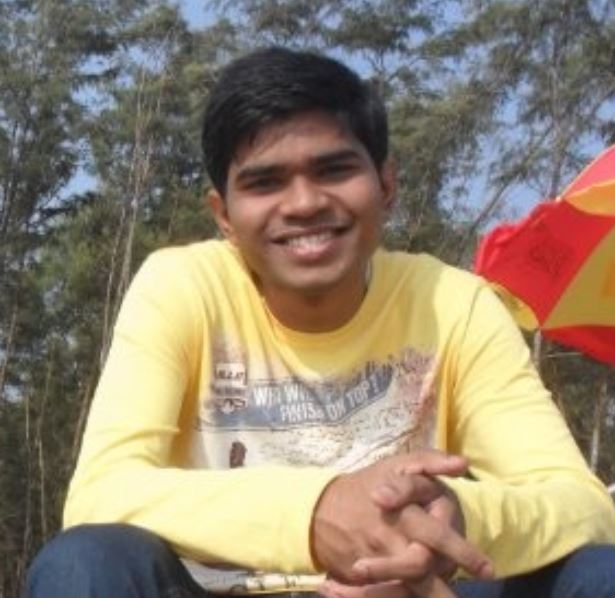
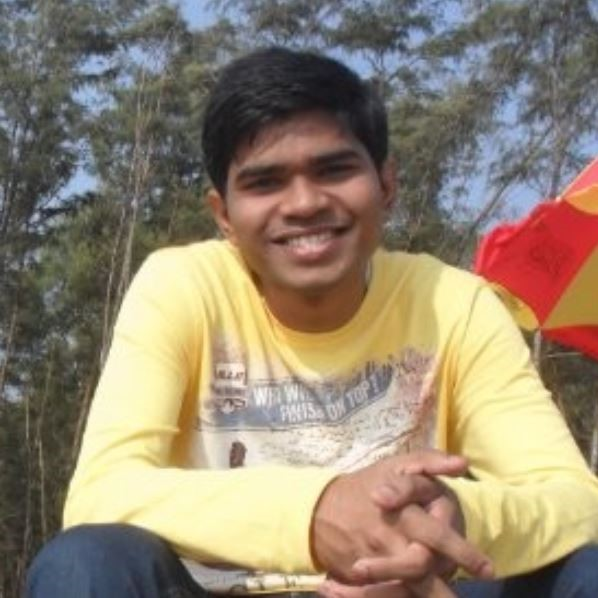
More updates

Changed region(s): [[0.0903, 0.0, 1.0, 1.0], [0.5418, 0.5418, 0.5719, 0.5719], [0.2709, 0.3612, 0.301, 0.3913]]

diff --git a/index.html b/index.html
@@ -158,8 +158,8 @@
                     
                   </td>
                   <td width="33%">
-                    <img class="acads" src="./src/images/dp.jpg" width="90%">
-                    <img class="extra hidden" src="./src/images/dp.jpg" width="90%">
+                    <img class="acads" src="./src/images/dp.jpg" width="100%">
+                    <img class="extra hidden" src="./src/images/dp2.jpg" width="100%">
                     <p align="center" class="acads">
                       <a href="https://bit.ly/2TigqsL">CV</a> |
                       <a href="https://github.com/kumardeepakr3">Github</a> |
@@ -170,7 +170,7 @@
                       <a href="https://bit.ly/2TWdlPB">Giving Back</a> |
                       <a href="https://bit.ly/3iv3KJW"> Gratitude </a>
                     </p>
-                    <div style="display: inline-block;">Extracurricular</div>
+                    <div style="display: inline-block;margin-left: 35px;">Extracurricular</div>
                     <div class="tgl" height="10px" style="display: inline-block;margin-left: 6px;/* margin-top: 2px; */vertical-align: inherit;">
                       <input type="checkbox" onchange='extracurricularClick(this);' id="toggle" style="/* display: inline-block; *//* margin-top: 40px; */">
                       <label class="tggl" for="toggle" style="display: inline-block;/* margin-top: 2px; *//* padding-top: 19px; */"></label>
@@ -580,7 +580,7 @@
                 <td width="67%" valign="top">
                   <p>
                     <heading>Football</heading>
-                    <br>I've been playing football since class 7. I play in defensive positions (left back mostly). I was lucky to be the only student selected from my school to play for U-16 team of Andaman Islands. I've been playing for Microsoft in corporate tournaments since graduation.
+                    <br>I've been playing football since class 7. I play in defensive positions (left back mostly). I was lucky to be selected to play for U-16 team of Andaman Islands. I've been playing for Microsoft in corporate tournaments since graduation.
                     <br>
                   </p>
                   <p>Here's a small video of me scoring goals (I have a lot more of conceding goals): <a href="https://youtu.be/XWX79GtnevQ?t=15">Strikerz vs Microsoft</a></p>
@@ -616,6 +616,38 @@
                     <br>
                   </p>
                   <p><a href="https://www.strava.com/athletes/21182852">Strava</a> &nbsp; &nbsp; <a href="https://www.cult.fit">Cult.Fit</a></p>
+                </td>
+              </tr></tbody>
+            </table>
+
+            <table class="extra hidden" width="100%" align="center" border="0" cellspacing="0" cellpadding="20">
+              <tbody><tr>
+                <td width="33%" valign="top" align="center">
+                  <img src="./src/images/book.jpg" alt="sym" width="100%" style="border-style: none">
+                </td>
+                <td width="67%" valign="top">
+                  <p>
+                    <heading>Reading</heading>
+                    <br>Whenever I get time and I'm not sleepy at night, I try to pick up a book and read. I'm trying to not just read books but also to understand and apply the ideas within, so I read at very slow pace. I'm trying to avoid fictions (they're being made into movies anyways).
+                    <br>
+                  </p>
+                  <p><a href="https://www.goodreads.com/kumardeepakr3">GoodReads Account</a></p>
+                </td>
+              </tr></tbody>
+            </table>
+
+            <table class="extra hidden" width="100%" align="center" border="0" cellspacing="0" cellpadding="20">
+              <tbody><tr>
+                <td width="33%" valign="top" align="center">
+                  <img src="./src/images/ide.jpg" alt="sym" width="100%" style="border-style: none">
+                </td>
+                <td width="67%" valign="top">
+                  <p>
+                    <heading>Video editing (Only for fun)</heading>
+                    <br>I took a course on video editing in my 2nd year of college. I can edit simple videos for now on KDenLive and PremierePro. I know basic transitions and effects. I've applied the learning to create some dumb/silly videos.
+                    <br>
+                  </p>
+                  <p><a href="https://youtu.be/V4heZP1JeyE">Dame Tu Cosita</a>   &nbsp; &nbsp; <a href="https://youtu.be/WVzhnJpbC0Y">Batman X Dhamaal</a>   &nbsp; &nbsp;  <a href="https://youtu.be/Juz3Iefya0c">Snape & Lily</a></p>
                 </td>
               </tr></tbody>
             </table>
@@ -668,37 +700,6 @@
               </tr></tbody>
             </table>
 
-            <table class="extra hidden" width="100%" align="center" border="0" cellspacing="0" cellpadding="20">
-              <tbody><tr>
-                <td width="33%" valign="top" align="center">
-                  <img src="./src/images/ide.jpg" alt="sym" width="100%" style="border-style: none">
-                </td>
-                <td width="67%" valign="top">
-                  <p>
-                    <heading>Video editing (Only for fun)</heading>
-                    <br>I took a course on video editing in my 2nd year of college. I can edit simple videos for now on KDenLive and PremierePro. I know basic transitions and effects. I've applied the learning to create some dumb videos.
-                    <br>
-                  </p>
-                  <p><a href="https://youtu.be/V4heZP1JeyE">Dame Tu Cosita</a>   &nbsp; &nbsp; <a href="https://youtu.be/WVzhnJpbC0Y">Batman X Dhamaal</a>   &nbsp; &nbsp;  <a href="https://youtu.be/Juz3Iefya0c">Snape & Lily</a></p>
-                </td>
-              </tr></tbody>
-            </table>
-
-            <table class="extra hidden" width="100%" align="center" border="0" cellspacing="0" cellpadding="20">
-              <tbody><tr>
-                <td width="33%" valign="top" align="center">
-                  <img src="./src/images/book.jpg" alt="sym" width="100%" style="border-style: none">
-                </td>
-                <td width="67%" valign="top">
-                  <p>
-                    <heading>Reading</heading>
-                    <br>Whenever I get time and I'm not sleepy at night, I try to pick up a book and read. I'm trying to not just read books but also to understand and apply the ideas within, so I read books at very slow pace. I'm trying to avoid fictions (they're being made into movies anyways).
-                    <br>
-                  </p>
-                  <p><a href="https://www.goodreads.com/kumardeepakr3">GoodReads Account</a></p>
-                </td>
-              </tr></tbody>
-            </table>
 
 
       <table width="100%" align="center" border="0" cellspacing="0" cellpadding="20">
